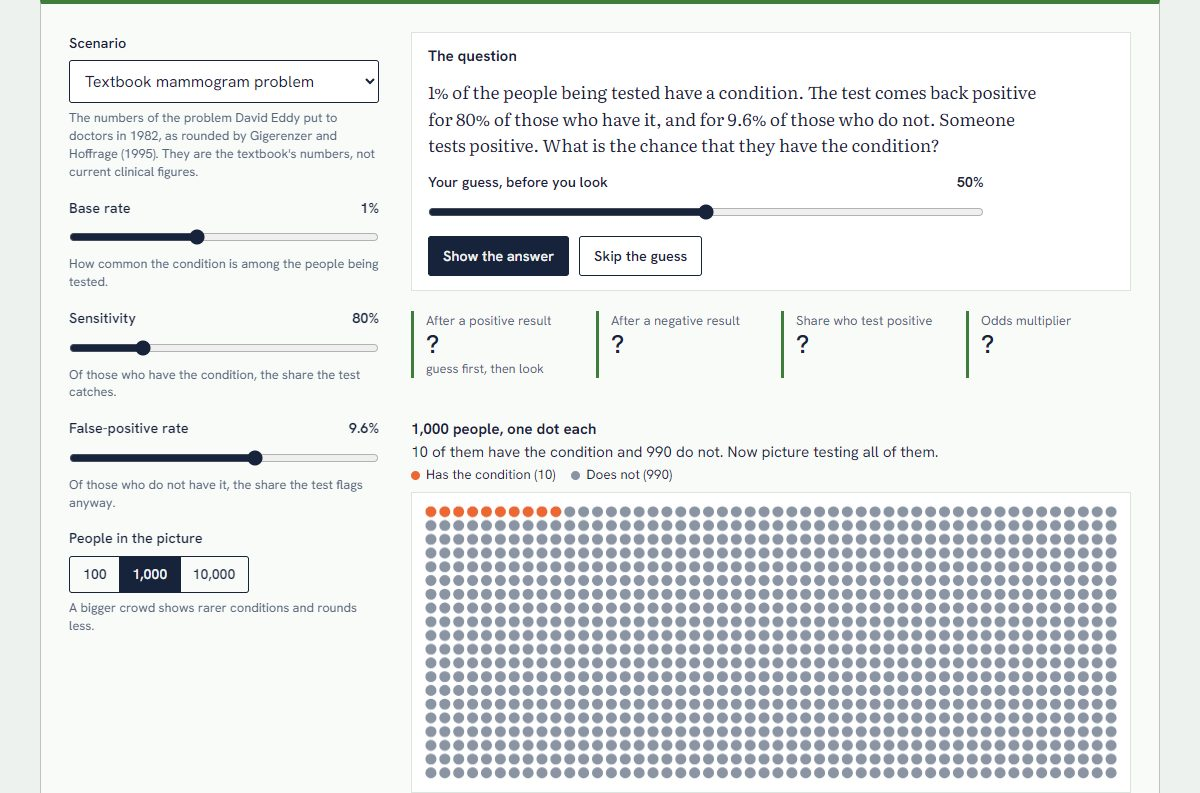
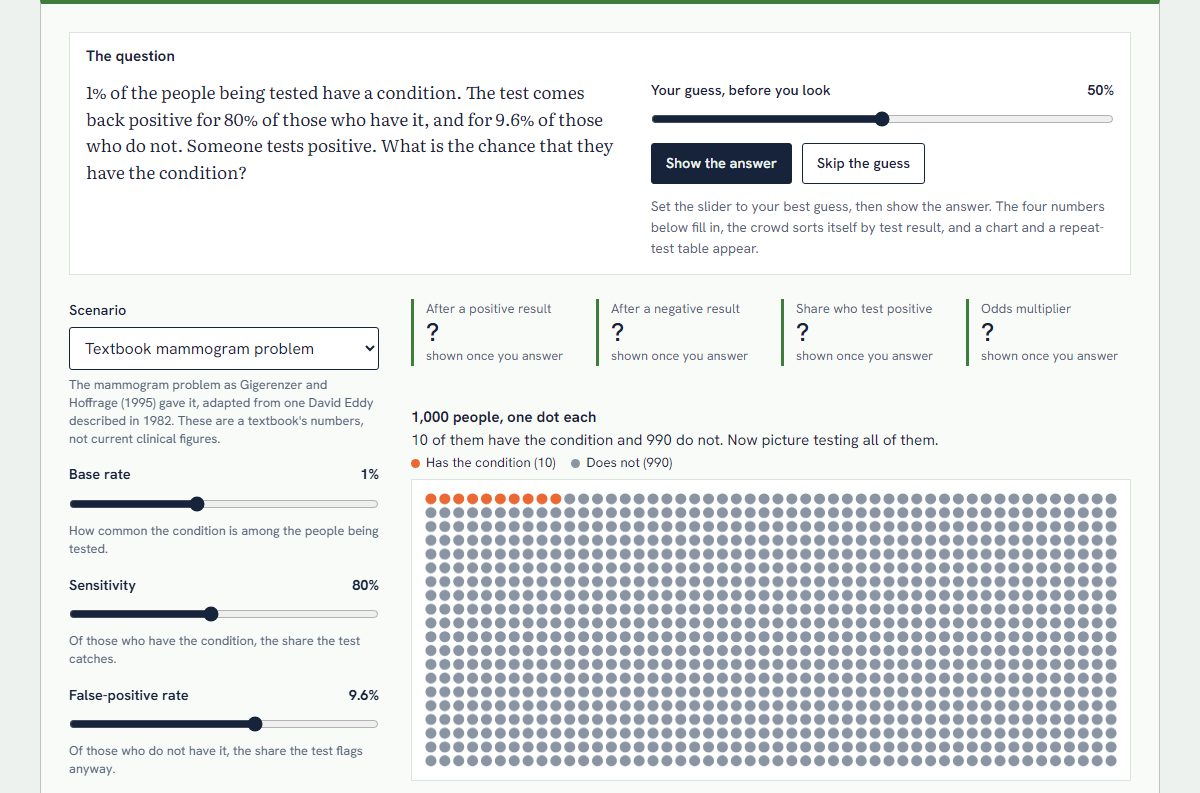
Review project 4: exact slider readouts, tab order, phone table

diff --git a/365projects/4/index.html b/365projects/4/index.html
@@ -11,15 +11,27 @@
   <link rel="stylesheet" href="../../assets/site.css">
   <link rel="stylesheet" href="../kit/kit.css">
   <style>
-    /* Question and answer first in reading order; on a wide screen the controls sit in a left column. */
-    .lab-grid { display: grid; grid-template-columns: minmax(230px, 310px) minmax(0, 1fr); grid-template-areas: "controls top" "controls rest"; gap: 24px 32px; align-items: start; }
+    /* Source order is the question, its answer, the controls, the detail, and the layout follows it at every width:
+       on a wide screen the question runs across the top with the controls in a left column below it; on a narrow one
+       everything stacks. Nothing in .lab-top takes keyboard focus, so the tab order matches what is on screen. */
+    .lab-grid { display: grid; grid-template-columns: minmax(230px, 310px) minmax(0, 1fr); grid-template-areas: "ask ask" "controls top" "controls rest"; gap: 24px 32px; align-items: start; }
+    .lab-grid > .ask { grid-area: ask; }
     .lab-grid > .controls { grid-area: controls; }
     .lab-top { grid-area: top; }
     .lab-rest { grid-area: rest; }
-    @media (max-width: 860px) { .lab-grid { grid-template-columns: minmax(0, 1fr); grid-template-areas: "top" "controls" "rest"; } }
-    .ask { display: grid; gap: 12px; }
+    .ask { display: grid; grid-template-columns: minmax(0, 1.15fr) minmax(0, 1fr); gap: 12px 32px; align-items: start; }
+    .ask h2 { grid-column: 1 / -1; }
+    @media (max-width: 860px) {
+      .lab-grid { grid-template-columns: minmax(0, 1fr); grid-template-areas: "ask" "top" "controls" "rest"; }
+      .ask { grid-template-columns: minmax(0, 1fr); }
+    }
     .ask .q { font: 400 1.08rem/1.55 var(--serif); max-width: 62ch; }
-    .guess { display: grid; gap: 12px; max-width: 62ch; }
+    .answer { min-width: 0; max-width: 62ch; }
+    .verdict .note { margin-bottom: 12px; }
+    .guess { display: grid; gap: 12px; }
+    /* The guess log has a long first heading; let headings wrap so the table fits a phone without scrolling. */
+    .log .tbl th { white-space: normal; vertical-align: bottom; }
+    @media (max-width: 560px) { .log .tbl th, .log .tbl td { padding-inline: 6px; } }
     .summary { margin: 0 0 8px; font-size: 0.95rem; }
     .split-bar { display: flex; gap: 2px; height: 22px; margin: 2px 0 8px; }
     .split-bar span { display: block; min-width: 2px; border-radius: 2px; }
@@ -43,10 +55,10 @@
 
     <section class="p-sec">
       <h2>The idea</h2>
-      <p>In 1978 three researchers put a question to 60 doctors, students and staff at Harvard Medical School. A condition affects 1 person in 1,000. A test for it has a false-positive rate of 5%. Someone tests positive: what is the chance they have the condition? The most common answer was 95%. The right answer is about 2%, and 11 of the 60 gave it. A few years later David Eddy posed a similar problem about mammograms, the one this page opens with, and reported that most of the physicians he asked answered about 75% where the arithmetic says under 8%.</p>
+      <p>In 1978 three researchers put a question to 60 doctors and medical students at Harvard's teaching hospitals. A condition affects 1 person in 1,000. A test for it has a false-positive rate of 5%. Someone tests positive: what is the chance they have the condition? The most common answer, given by 27 of the 60, was 95%. The right answer is about 2%, and 11 of the 60 gave it. A few years later David Eddy described a similar problem about a mammogram, a later version of which opens this page, and reported that about 95 of every 100 physicians he had asked put the chance at around 75%, where the arithmetic says under 8%.</p>
       <p>The mistake has a name, <strong>base-rate neglect</strong>, and a shape. The test's sensitivity tells you how likely a positive result is <em>if the person has the condition</em>. The question asks the reverse: how likely the condition is <em>if the result is positive</em>. Those two numbers can be as far apart as 80% and 8%, because the second depends on something the first ignores, which is how common the condition was to begin with. When almost everybody tested is healthy, a small error rate among the healthy produces more positive results than a high hit rate among the few who are ill. Daniel Kahneman and Amos Tversky showed in the 1970s that people leave the base rate out of all kinds of judgements, not only medical ones. In a courtroom the same swap is called the prosecutor's fallacy.</p>
       <p>The rule for getting it right was published in 1763 from the papers of Thomas Bayes, and it carries a claim about knowledge that goes well beyond medicine: evidence never speaks on its own. A result tells you how far to move, and where you end up depends on where you started. Two people who see the same positive test and begin from different base rates should end with different beliefs, and both can be reasoning correctly.</p>
-      <p>Gerd Gigerenzer and Ulrich Hoffrage found in 1995 that the difficulty lies in the format as much as in the people. Give the same facts as counts of people, "10 of every 1,000 have it; 8 of those 10 test positive; so do 95 of the other 990", and the share of correct answers rose from about one in six to nearly half, with no teaching at all. Counted this way the answer is something you can see: 8 dots out of 103. That is what the picture on this page draws.</p>
+      <p>Gerd Gigerenzer and Ulrich Hoffrage found in 1995 that the difficulty lies in the format as much as in the people. When they gave students the same facts as counts of people (10 of every 1,000 have it; 8 of those 10 test positive; so do 95 of the other 990), the share of answers worked out in the way Bayes' rule requires rose from 16% to 46% across fifteen problems, with no teaching at all. Counted this way the answer is something you can see: 8 dots out of 103. That is what the picture on this page draws.</p>
     </section>
 
     <section class="p-sec">
@@ -73,9 +85,11 @@
       <h3>Repeating the test</h3>
       <p>For a second result the tool applies the theorem again with the first answer as the new base rate, which is the same as multiplying the odds by the likelihood ratio once per result. The order of the results does not matter. This is only right if the test's errors on one run are independent of its errors on the next, given whether the person has the condition.</p>
       <h3>The guess</h3>
-      <p>A guess counts as close when it is within five percentage points of the answer. Failing that, the tool checks whether it is within five points of the sensitivity or of the specificity, the two numbers people most often give instead, and says so. "Guess a new scenario" draws a base rate from nine values between 0.1% and 30%, a sensitivity from five between 70% and 99% and a false-positive rate from six between 1% and 20%, using a seeded generator so the sequence is the same on every visit.</p>
+      <p>A guess counts as close when it is within five percentage points of the answer. Failing that, the tool checks whether it is within five points of the sensitivity or of the specificity, the two numbers people most often give instead, and says so. "Guess a new scenario", or "A random scenario to guess" in the scenario list, draws a base rate from nine values between 0.1% and 30%, a sensitivity from five between 70% and 99% and a false-positive rate from six between 1% and 20%, using a seeded generator so the sequence is the same on every visit.</p>
       <h3>The sliders</h3>
-      <p>Each slider steps through every value whose distance from the nearer of 0% and 100% has at most two significant figures: 0.11%, 9.6%, 50%, 99.89%. That gives fine steps where tests and base rates actually live and coarser ones in the middle.</p>
+      <p>Each slider steps through every value whose distance from the nearer of 0% and 100% has at most two significant figures: 0.11%, 9.6%, 50%, 99.89%. That gives fine steps where tests and base rates actually live and coarser ones in the middle. The base rate and the false-positive rate run from 0.01% to 99%; the sensitivity runs from 1% to 99.9% and then to 100%.</p>
+      <h3>How results are written</h3>
+      <p>A result between 1% and 99% is given to one decimal place. Closer to 0% or to 100% it keeps two significant figures of its distance from that end, as in 0.22% or 99.9974%, so a small chance is never rounded away to nothing. Only a result that is exactly zero or exactly certain is written as 0% or 100%.</p>
     </section>
 
     <section class="p-sec">
@@ -83,7 +97,7 @@
       <ul>
         <li><strong>Anything about your own health.</strong> Apart from the two published problems, the scenarios use round numbers chosen to show a pattern. The sensitivity and false-positive rate of a real test depend on the laboratory, the cut-off used and who is being tested. This is a way to understand a test result, not to interpret one.</li>
         <li><strong>What the right base rate is.</strong> It is the input that matters most and the one nobody hands you. The prevalence in a whole population is the wrong starting point for someone with symptoms, a family history or an unusual age, and choosing the group a person belongs to is a judgement the theorem takes as given.</li>
-        <li><strong>How a real test behaves across patients.</strong> Sensitivity is treated here as one number. In practice tests catch advanced cases more easily than early ones, so the figure measured on hospital patients overstates what the test does in screening.</li>
+        <li><strong>How a real test behaves across patients.</strong> Sensitivity is treated here as one number. In practice a test often catches advanced cases more easily than early ones, so a figure measured on hospital patients can overstate what the test does in screening.</li>
         <li><strong>What a second test adds.</strong> The repeat table assumes independent errors. If the first false alarm had a cause that is still there, such as a cross-reacting substance or dense tissue, the second test is likely to repeat it and the table is too optimistic.</li>
         <li><strong>Whether screening is worth doing.</strong> A 7.8% chance after a positive result is not an argument against the test. That depends on what the follow-up costs the 95 people with false alarms, what early detection gains the 8, and what happens to the 2 who were missed. The tool gives probabilities and stops there.</li>
         <li><strong>How well you reason.</strong> The guess is a prompt, not an experiment. The crowd of dots is on screen before you answer, and that is already the format that helps.</li>
@@ -107,8 +121,8 @@
       <ul class="refs">
         <li>Bayes, T. (1763). An essay towards solving a problem in the doctrine of chances. <em>Philosophical Transactions of the Royal Society of London</em>, 53, 370-418.</li>
         <li>Casscells, W., Schoenberger, A., and Graboys, T. B. (1978). Interpretation by physicians of clinical laboratory results. <em>New England Journal of Medicine</em>, 299(18), 999-1001. Source of the "Harvard Medical School question" scenario.</li>
-        <li>Eddy, D. M. (1982). Probabilistic reasoning in clinical medicine: problems and opportunities. In D. Kahneman, P. Slovic and A. Tversky (eds.), <em>Judgment under Uncertainty: Heuristics and Biases</em>. Cambridge University Press. Source of the mammogram problem.</li>
-        <li>Gigerenzer, G., and Hoffrage, U. (1995). How to improve Bayesian reasoning without instruction: frequency formats. <em>Psychological Review</em>, 102(4), 684-704. Source of the rounded numbers used in the opening scenario.</li>
+        <li>Eddy, D. M. (1982). Probabilistic reasoning in clinical medicine: problems and opportunities. In D. Kahneman, P. Slovic and A. Tversky (eds.), <em>Judgment under Uncertainty: Heuristics and Biases</em>, 249-267. Cambridge University Press. Source of the mammogram problem.</li>
+        <li>Gigerenzer, G., and Hoffrage, U. (1995). How to improve Bayesian reasoning without instruction: frequency formats. <em>Psychological Review</em>, 102(4), 684-704. Source of the numbers used in the opening scenario, which the authors adapted from Eddy's problem.</li>
         <li>Kahneman, D., and Tversky, A. (1973). On the psychology of prediction. <em>Psychological Review</em>, 80(4), 237-251.</li>
         <li>Bar-Hillel, M. (1980). The base-rate fallacy in probability judgments. <em>Acta Psychologica</em>, 44(3), 211-233.</li>
         <li>Gigerenzer, G., Gaissmaier, W., Kurz-Milcke, E., Schwartz, L. M., and Woloshin, S. (2007). Helping doctors and patients make sense of health statistics. <em>Psychological Science in the Public Interest</em>, 8(2), 53-96.</li>

diff --git a/365projects/4/app.js b/365projects/4/app.js
@@ -1,6 +1,6 @@
 // Day 4: Bayes Intuition Lab. Interface.
 import { $, el, fmt, mount, slider, select, segmented, button, stat, note, table, chart, canvas, palette, rng } from "../kit/kit.js";
-import { PRESETS, bayes, crowd, sequence, curve, priorFor, judgeGuess, randomScenario, probGrid } from "./logic.js";
+import { PRESETS, GRIDS as GRID, bayes, crowd, sequence, curve, priorFor, judgeGuess, randomScenario, pctIn, pct } from "./logic.js";
 
 mount();
 
@@ -8,29 +8,19 @@ const HAS = palette[1];   // people who have the condition
 const NOT = "#8a94a3";    // people who do not
 const INK = "#16233b";
 
-/** Inputs are tidy numbers, shown as they are. */
-const pctIn = (p) => `${fmt.sig(p * 100, 4)}%`;
-/** Results keep enough decimals to stay distinct from 0% and 100%. */
-function pct(p) {
-  if (p == null || !Number.isFinite(p)) return "–";
-  if (p === 0 || p === 1) return p ? "100%" : "0%";
-  const q = Math.min(p, 1 - p) * 100;
-  return `${fmt.num(p * 100, q >= 1 ? 1 : Math.min(8, Math.ceil(-Math.log10(q)) + 1))}%`;
-}
 const people = (k) => (k === 1 ? "1 person" : `${fmt.int(k)} people`);
 const nearest = (grid, p) => grid.reduce((best, v, i) => (Math.abs(v - p) < Math.abs(grid[best] - p) ? i : best), 0);
 
-const GRID = { prior: probGrid(0.0001, 0.99), sens: probGrid(0.01, 1), fpr: probGrid(0.0001, 0.99) };
 const state = { ...PRESETS[0], preset: PRESETS[0].key, n: 1000, revealed: false, verdict: null, log: [], seed: 4 };
 
 /* ---------- controls ---------- */
 const presetNote = el("div", { class: "hint" });
 const presetSelect = select({
   label: "Scenario", value: state.preset,
-  options: [...PRESETS.map((p) => ({ value: p.key, label: p.label })), { value: "custom", label: "Your own numbers" }],
+  options: [...PRESETS.map((p) => ({ value: p.key, label: p.label })), { value: "random", label: "A random scenario to guess" }, { value: "custom", label: "Your own numbers" }],
   onChange: (key) => {
     const p = PRESETS.find((x) => x.key === key);
-    if (p) setScenario(p, key); else { state.preset = "custom"; update(); }
+    if (p) setScenario(p, key); else if (key === "random") newRound(false); else { state.preset = "custom"; update(); }
   },
 });
 presetSelect.el.append(presetNote);
@@ -44,9 +34,12 @@ for (const [key, label, hint] of [
   sliders[key] = slider({
     label, hint, min: 0, max: GRID[key].length - 1, step: 1, value: nearest(GRID[key], state[key]),
     format: (i) => pctIn(GRID[key][i]),
-    onInput: (i) => { state[key] = GRID[key][i]; state.preset = "custom"; presetSelect.value = "custom"; state.verdict = null; update(); },
+    onInput: (i) => { state[key] = GRID[key][i]; state.preset = "custom"; presetSelect.value = "custom"; state.verdict = null; sayValue(key); update(); },
   });
+  sayValue(key);
 }
+/** The slider's own value is a position in the list of steps, so assistive technology is told the percentage instead. */
+function sayValue(key) { sliders[key].input.setAttribute("aria-valuetext", pctIn(GRID[key][sliders[key].value])); }
 const crowdSeg = segmented({
   label: "People in the picture", value: state.n,
   options: [{ value: 100, label: "100" }, { value: 1000, label: "1,000" }, { value: 10000, label: "10,000" }],
@@ -58,8 +51,9 @@ const controls = el("div", { class: "controls" }, presetSelect.el, sliders.prior
 /* ---------- outputs ---------- */
 const question = el("p", { class: "q" });
 const guessSlider = slider({ label: "Your guess, before you look", min: 0, max: 100, step: 1, value: 50, format: (v) => `${v}%` });
+const verdictBox = el("div", { class: "verdict", role: "status" });
 const guessArea = el("div", { class: "guess" });
-const questionPanel = el("div", { class: "panel ask" }, el("h3", { text: "The question" }), question, guessArea);
+const questionPanel = el("div", { class: "panel ask" }, el("h2", { text: "The question" }), question, el("div", { class: "answer" }, verdictBox, guessArea));
 
 const sPos = stat("After a positive result");
 const sNeg = stat("After a negative result");
@@ -76,14 +70,15 @@ const chartBox = el("div");
 const chartNote = el("p", { class: "small muted" });
 const repeatBox = el("div");
 const logBox = el("div");
-// Reading order (and phone order): the question and its answer, then the controls, then the detail.
-// On a wide screen the page's own grid puts the controls in a column on the left.
+// Reading order, tab order and phone order: the question, its answer, the controls, then the detail.
+// On a wide screen the question runs across the top and the controls sit in a column on the left below it.
+// Nothing in `top` takes keyboard focus, so Tab goes question, controls, detail at every width.
 const top = el("div", { class: "out lab-top" },
-  questionPanel, el("div", { class: "stats" }, sPos.el, sNeg.el, sShare.el, sLr.el), message,
+  el("div", { class: "stats" }, sPos.el, sNeg.el, sShare.el, sLr.el), message,
   el("div", {}, picTitle, summary, picLegend, picBox, picNote), barBox);
 const rest = el("div", { class: "out lab-rest" }, el("div", {}, chartBox, chartNote), repeatBox, logBox);
 
-$("#app").append(el("div", { class: "lab-grid" }, top, controls, rest));
+$("#app").append(el("div", { class: "lab-grid" }, questionPanel, top, controls, rest));
 
 /* ---------- the picture: one dot per person ---------- */
 // Colour says who has the condition. After the reveal, position says how they tested.
@@ -92,7 +87,7 @@ function layout(w) {
   const n = state.n;
   const cols = n === 100 ? (narrow ? 10 : 20) : n === 1000 ? (narrow ? 40 : 50) : narrow ? 100 : 200;
   const pad = 12;
-  const cell = Math.min(n === 100 ? 22 : 14, (w - 2 * pad) / cols);
+  const cell = Math.max(1, Math.min(n === 100 ? 22 : 14, (w - 2 * pad) / cols));
   const c = crowd(state.prior, state.sens, state.fpr, n);
   const blocks = state.revealed
     ? [{ title: `Tested positive: ${people(c.positive)}`, more: `, ${fmt.int(c.tp)} with the condition`, has: c.tp, not: c.fp },
@@ -139,7 +134,7 @@ document.fonts?.ready.then(() => picture.redraw());   // the block titles are dr
 
 /* ---------- actions ---------- */
 function setScenario(s, key = "custom") {
-  for (const k of ["prior", "sens", "fpr"]) { state[k] = s[k]; sliders[k].value = nearest(GRID[k], s[k]); }
+  for (const k of ["prior", "sens", "fpr"]) { state[k] = s[k]; sliders[k].value = nearest(GRID[k], s[k]); sayValue(k); }
   state.preset = key;
   presetSelect.value = key;
   state.verdict = null;
@@ -150,13 +145,15 @@ function reveal(withGuess) {
   if (state.verdict) state.log.push({ prior: state.prior, sens: state.sens, fpr: state.fpr, ...state.verdict });
   state.revealed = true;
   update();
+  guessArea.querySelector("button")?.focus();   // the button that was pressed has gone; keep the keyboard's place
 }
-function newRound() {
+function newRound(moveFocus = true) {
   let s;
   do { state.seed++; s = randomScenario(rng(state.seed)); } while (s.prior === state.prior && s.sens === state.sens && s.fpr === state.fpr);
   state.revealed = false;
   guessSlider.value = 50;
-  setScenario(s);
+  setScenario(s, "random");
+  if (moveFocus) guessSlider.input.focus();
 }
 
 function verdictNote(v) {
@@ -183,34 +180,39 @@ function update() {
   message.replaceChildren();
 
   const preset = PRESETS.find((p) => p.key === state.preset);
-  presetNote.textContent = preset ? preset.note : "Your own numbers. Nothing here describes a real test.";
+  presetNote.textContent = preset ? preset.note : state.preset === "random"
+    ? "Round numbers drawn at random for you to guess at. Nothing here describes a real test."
+    : "Your own numbers. Nothing here describes a real test.";
 
   question.textContent = `${pctIn(prior)} of the people being tested have a condition. The test comes back positive for ${pctIn(sens)} of those who have it, and for ${pctIn(fpr)} of those who do not. Someone tests positive. What is the chance that they have the condition?`;
+  verdictBox.replaceChildren(...(revealed && state.verdict ? [verdictNote(state.verdict)] : []));
   guessArea.replaceChildren(...(revealed
-    ? [...(state.verdict ? [verdictNote(state.verdict)] : []),
-       el("div", { class: "row" }, button("Guess a new scenario", newRound, { small: !state.verdict, primary: Boolean(state.verdict) }))]
+    ? [el("div", { class: "row" }, button("Guess a new scenario", () => newRound(), { small: !state.verdict, primary: Boolean(state.verdict) })),
+       el("p", { class: "small muted", text: "The answer is worked out below. Change the scenario or move a slider and everything updates as you go." })]
     : [guessSlider.el,
-       el("div", { class: "row" }, button("Show the answer", () => reveal(true), { primary: true }), button("Skip the guess", () => reveal(false)))]));
+       el("div", { class: "row" }, button("Show the answer", () => reveal(true), { primary: true }), button("Skip the guess", () => reveal(false))),
+       el("p", { class: "small muted", text: "Set the slider to your best guess, then show the answer. The four numbers below fill in, the crowd sorts itself by test result, and a chart and a repeat-test table appear." })]));
 
   // Headline numbers.
   if (revealed) {
     sPos.set(pct(b.afterPositive), "chance they have the condition");
     sNeg.set(pct(b.afterNegative), "chance the test missed it");
-    sShare.set(pct(b.pPos), `${fmt.sig(b.pPos * n, 3)} in every ${fmt.int(n)}`);
+    sShare.set(pct(b.pPos), `${fmt.sig(b.pPos * n, 4)} in every ${fmt.int(n)}`);
     sLr.set(Number.isFinite(b.lrPositive) ? `× ${fmt.sig(b.lrPositive, 3)}` : "–", b.lrNegative === 0 ? "for a positive; a negative rules the condition out" : `for a positive; × ${fmt.sig(b.lrNegative, 3)} for a negative`);
   } else {
-    for (const s of [sPos, sNeg, sShare, sLr]) s.set("?", "");
-    sPos.set("?", "guess first, then look");
+    for (const s of [sPos, sNeg, sShare, sLr]) s.set("?", "shown once you answer");
   }
 
   // The picture.
   picTitle.textContent = revealed ? `The same ${people(n)}, sorted by test result` : `${people(n)}, one dot each`;
   const frequency = c.afterPositive;
   summary.textContent = !revealed
-    ? `${fmt.int(c.sick)} of them have the condition and ${fmt.int(c.well)} do not. Now picture testing all of them.`
+    ? `${c.sick ? fmt.int(c.sick) : "None"} of them ${c.sick === 1 ? "has" : "have"} the condition and ${fmt.int(c.well)} ${c.well === 1 ? "does" : "do"} not. Now picture testing all of them.`
     : c.positive === 0
       ? `Of ${people(n)}, nobody tests positive at this scale.`
-      : `${fmt.int(c.positive)} of the ${fmt.int(n)} test positive, and ${fmt.int(c.tp)} of those ${fmt.int(c.positive)} have the condition: ${pct(frequency)}.`;
+      : c.positive === 1
+        ? `1 of the ${fmt.int(n)} tests positive, and that person ${c.tp ? "has" : "does not have"} the condition: ${pct(frequency)}.`
+        : `${fmt.int(c.positive)} of the ${fmt.int(n)} test positive, and ${c.tp === c.positive ? "all" : c.tp ? fmt.int(c.tp) : "none"} of those ${fmt.int(c.positive)} ${c.tp === 1 ? "has" : "have"} the condition: ${pct(frequency)}.`;
   picLegend.replaceChildren(
     el("span", {}, el("i", { class: "dot", style: { background: HAS } }), `Has the condition (${fmt.int(c.sick)})`),
     el("span", {}, el("i", { class: "dot", style: { background: NOT } }), `Does not (${fmt.int(c.well)})`));
@@ -275,18 +277,16 @@ function update() {
   if (state.log.length) {
     const meanGap = state.log.reduce((s, g) => s + Math.abs(g.gap), 0) / state.log.length;
     logBox.replaceChildren(
-      table({
+      el("div", { class: "log" }, table({
         caption: `Your guesses so far: off by ${fmt.sig(meanGap * 100, 3)} percentage points on average`,
         columns: [
-          { key: "prior", label: "Base rate", num: true, format: pctIn },
-          { key: "sens", label: "Sensitivity", num: true, format: pctIn },
-          { key: "fpr", label: "False positives", num: true, format: pctIn },
+          { key: "prior", label: "Base rate, sensitivity, false positives", format: (v, g) => `${pctIn(g.prior)}, ${pctIn(g.sens)}, ${pctIn(g.fpr)}` },
           { key: "guess", label: "Your guess", num: true, format: (v) => `${fmt.int(v * 100)}%` },
           { key: "truth", label: "Answer", num: true, format: pct },
-          { key: "gap", label: "Gap", num: true, format: (v) => `${fmt.signed(v * 100, 1)} points` },
+          { key: "gap", label: "Gap (points)", num: true, format: (v) => fmt.signed(v * 100, 1) },
         ],
         rows: state.log,
-      }),
+      })),
       el("div", { class: "row", style: { marginTop: "10px" } }, button("Clear my guesses", () => { state.log = []; update(); }, { small: true })));
   } else logBox.replaceChildren();
 }

diff --git a/365projects/4/logic.js b/365projects/4/logic.js
@@ -1,5 +1,6 @@
 // Day 4: Bayes Intuition Lab. The model, with no DOM code.
 // One yes/no test for one yes/no condition, worked out as probabilities and as whole people.
+import { fmt } from "../kit/kit.js";
 
 const isProb = (x) => typeof x === "number" && Number.isFinite(x) && x >= 0 && x <= 1;
 
@@ -9,13 +10,13 @@ const isProb = (x) => typeof x === "number" && Number.isFinite(x) && x >= 0 && x
  */
 export const PRESETS = [
   { key: "textbook", label: "Textbook mammogram problem", prior: 0.01, sens: 0.8, fpr: 0.096, source: true,
-    note: "The numbers of the problem David Eddy put to doctors in 1982, as rounded by Gigerenzer and Hoffrage (1995). They are the textbook's numbers, not current clinical figures." },
+    note: "The mammogram problem as Gigerenzer and Hoffrage (1995) gave it, adapted from one David Eddy described in 1982. These are a textbook's numbers, not current clinical figures." },
   { key: "harvard", label: "Harvard Medical School question", prior: 0.001, sens: 1, fpr: 0.05, source: true,
     note: "Casscells, Schoenberger and Graboys (1978): a condition found in 1 person in 1,000 and a test with a 5% false-positive rate. The question gives no sensitivity, so it is taken as 100%." },
   { key: "rare", label: "Rare condition, excellent test (illustrative)", prior: 0.001, sens: 0.99, fpr: 0.01,
     note: "Illustrative numbers: a test that is right 99% of the time either way, used on a condition that 1 person in 1,000 has." },
   { key: "workplace", label: "Random workplace drug test (illustrative)", prior: 0.05, sens: 0.95, fpr: 0.05,
-    note: "Illustrative numbers: a test that is 95% accurate either way, used on a workforce where 1 in 20 would test positive truthfully." },
+    note: "Illustrative numbers: a test that is 95% accurate either way, used on a workforce in which 1 person in 20 has taken the drug." },
   { key: "symptoms", label: "Patient with symptoms (illustrative)", prior: 0.3, sens: 0.9, fpr: 0.1,
     note: "Illustrative numbers: the same kind of test, used on someone a doctor already thinks has a 30% chance of the condition." },
   { key: "outbreak", label: "Rapid test in an outbreak (illustrative)", prior: 0.1, sens: 0.7, fpr: 0.01,
@@ -140,4 +141,28 @@ export function probGrid(lo = 0.0001, hi = 0.99) {
   set.add(0);
   set.add(1);
   return [...set].filter((p) => p >= lo && p <= hi).sort((a, b) => a - b);
+}
+
+/**
+ * The positions of the three sliders. Base rates and false-positive rates run from 0.01% to 99%.
+ * Sensitivities run from 1% to 99.9%, then 100%: finer steps than that near 100% would fill most of the slider.
+ */
+export const GRIDS = { prior: probGrid(0.0001, 0.99), sens: [...probGrid(0.01, 0.999), 1], fpr: probGrid(0.0001, 0.99) };
+
+/** An input written out in full, so that no two slider positions read the same: 0.096 is "9.6%", 0.9989 is "99.89%". */
+export const pctIn = (p) => `${fmt.sig(p * 100, 8)}%`;
+
+/**
+ * A result as a percentage. Between 1% and 99% it has one decimal place. Nearer 0% or 100% it keeps two
+ * significant figures of the distance from that end, so 0.00223 is "0.22%" and 0.9999 is "99.99%".
+ * A result that is not exactly 0 or 1 is never written as "0%" or "100%".
+ */
+export function pct(p) {
+  if (p == null || !Number.isFinite(p)) return "–";
+  if (p === 0 || p === 1) return p ? "100%" : "0%";
+  const q = Math.min(p, 1 - p) * 100;
+  if (q >= 1) return `${fmt.num(p * 100, 1)}%`;
+  if (q < 1e-8) return p < 0.5 ? "under 0.00000001%" : "over 99.99999999%";
+  const decimals = Math.min(8, 1 - Math.floor(Math.log10(q) + 1e-9));
+  return `${(p * 100).toLocaleString("en-GB", { maximumFractionDigits: decimals })}%`;
 }
